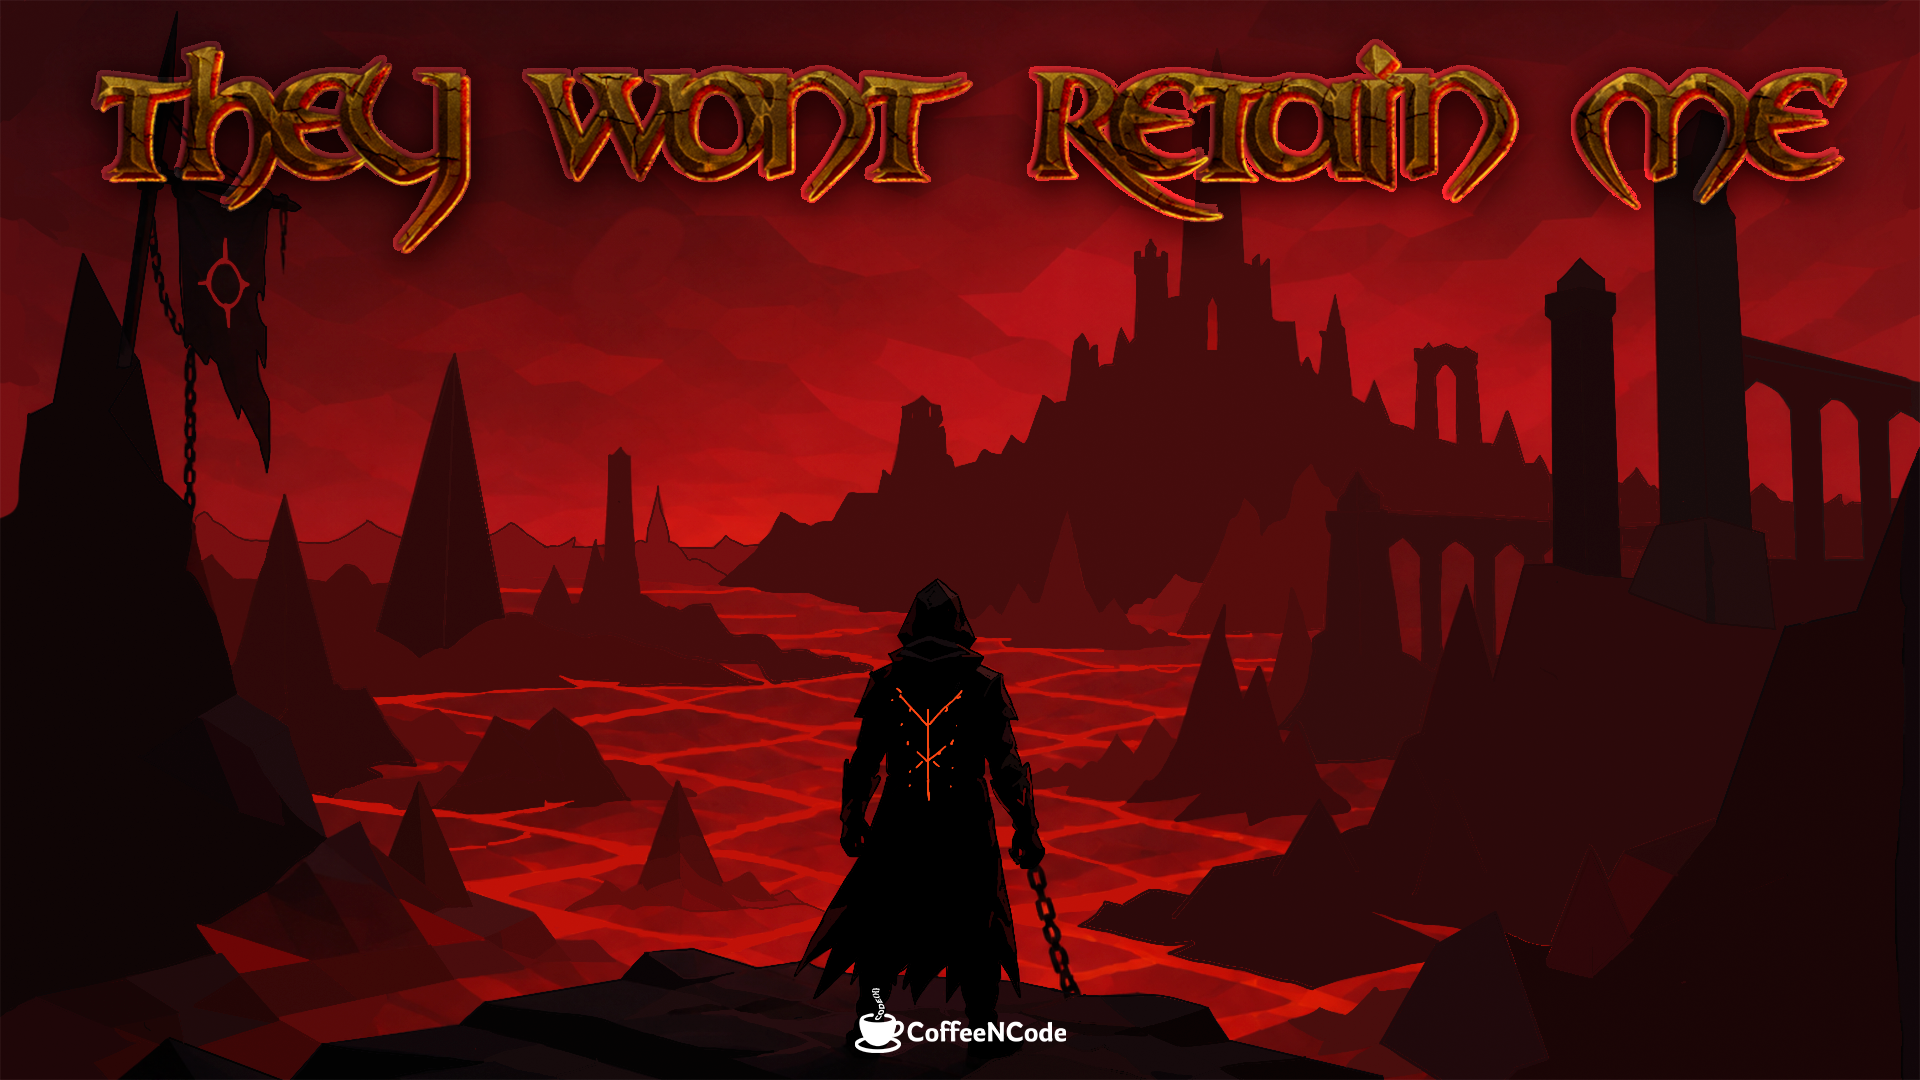
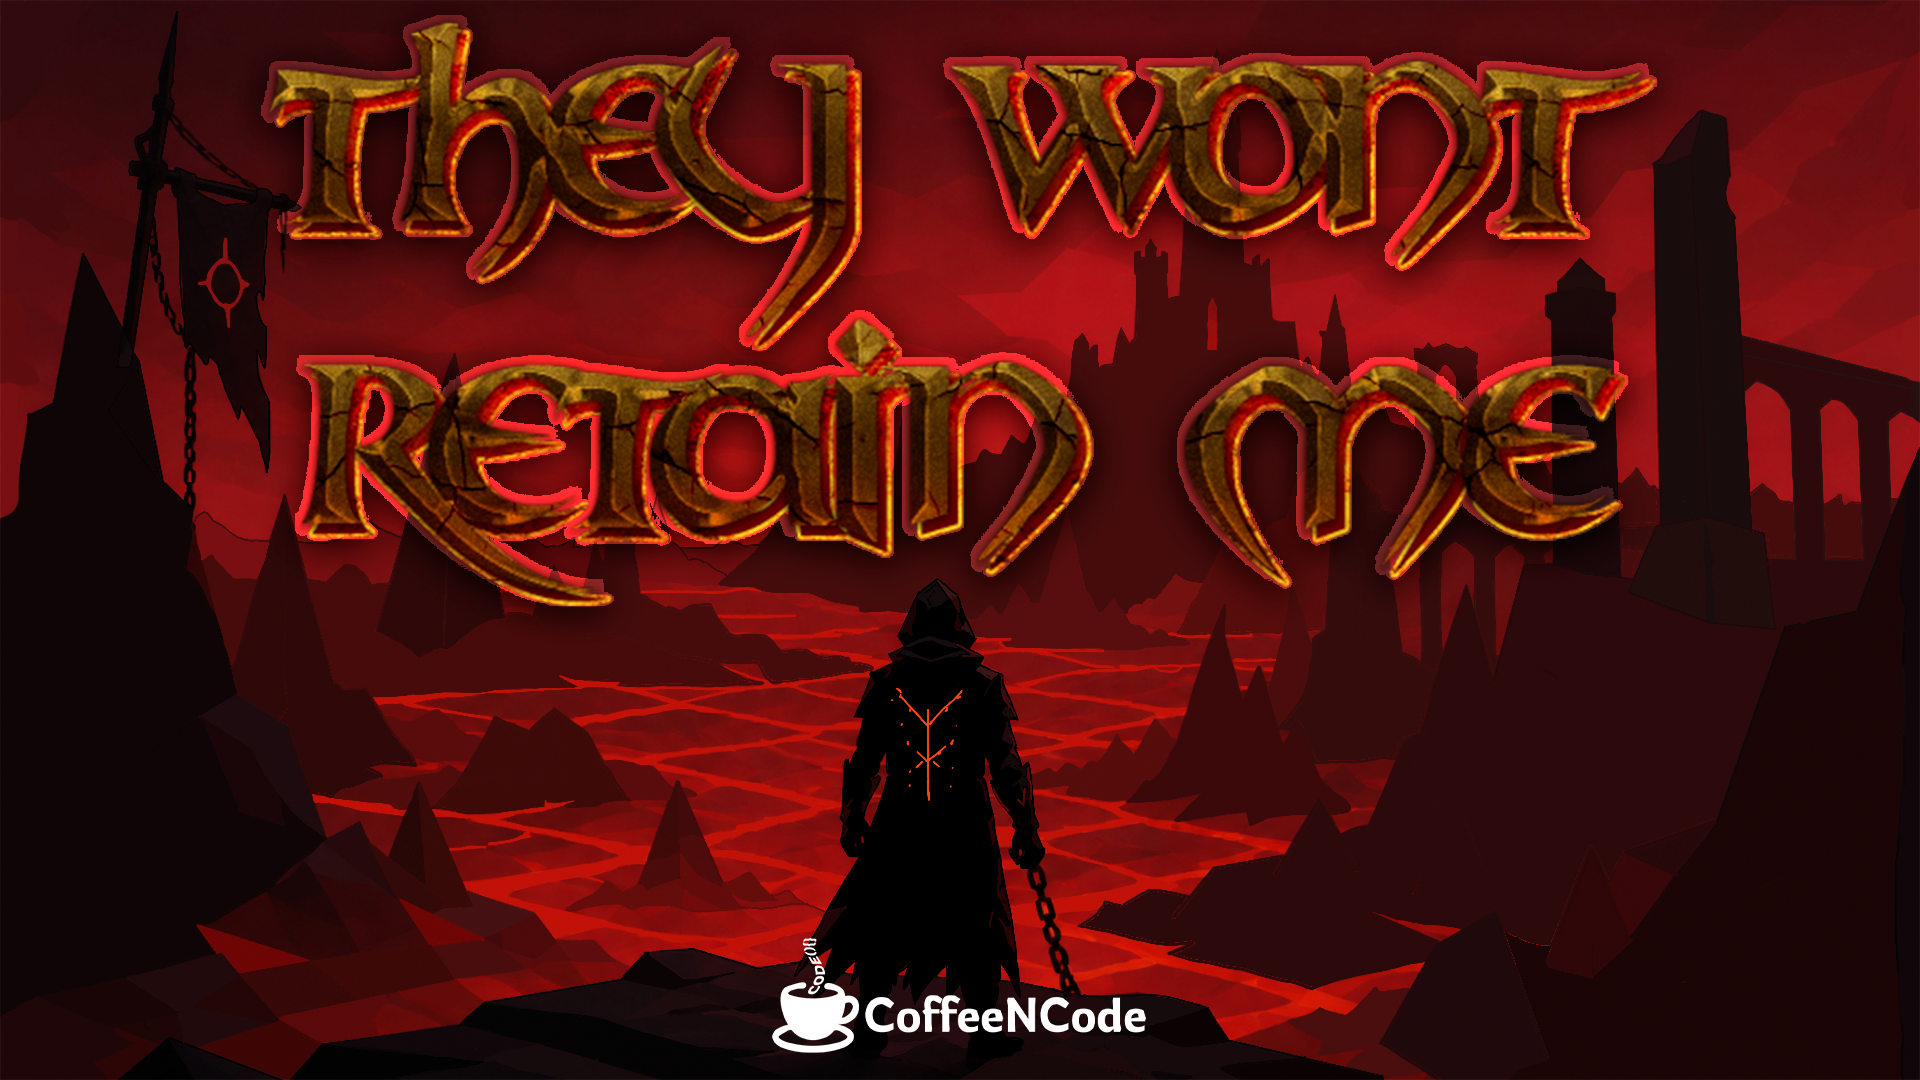
Arreglos y detalles

Changed region(s): [[0.0312, 0.0, 0.9688, 0.5806], [0.4062, 0.8861, 0.5938, 0.9778]]

diff --git a/assets/styles.css b/assets/styles.css
@@ -78,7 +78,7 @@ h1 {
 }
 
 h2 {
-    font-size: 2.5rem;
+    font-size: clamp(1.8rem, 6vw, 2.5rem);
 }
 
 .gradient-text {
@@ -204,6 +204,7 @@ h2 {
     color: var(--text-secondary);
     max-width: 650px;
     margin: 0 auto 2rem;
+    padding: 0 20px;
 }
 
 /* --- BUTTONS --- */
@@ -847,21 +848,25 @@ body::after {
     right: 40px;
     font-size: 0.85rem;
     color: var(--text-secondary);
-    display: flex;
-    align-items: center;
-    gap: 8px;
     z-index: 10;
     font-weight: 500;
     letter-spacing: 1px;
     text-transform: uppercase;
+    text-align: right;
+    max-width: 600px;
+    line-height: 1.5;
 }
 
 .status-dot {
+    display: inline-block;
     width: 10px;
     height: 10px;
     background-color: #10b981;
     border-radius: 50%;
     animation: pulse-green 2s infinite;
+    margin-right: 6px;
+    vertical-align: middle;
+    margin-bottom: 3px;
 }
 
 /* --- BENTO GRID (ABOUT ME) --- */
@@ -1173,13 +1178,31 @@ body::after {
 }
 
 @media (max-width: 768px) {
+    .hero-content {
+        padding-bottom: 100px;
+    }
+
     .featured-project {
         grid-template-columns: 1fr;
     }
 
     .featured-media {
-        height: 250px;
-        min-height: 250px;
+        height: auto;
+        min-height: unset;
+        padding: 40px 20px 0 20px;
+        align-items: center;
+    }
+
+}
+
+@media (max-width: 1024px) {
+    .status-text {
+        bottom: 95px;
+        right: 0;
+        left: 0;
+        text-align: center;
+        max-width: 100%;
+        padding: 0 20px;
     }
 }
 

diff --git a/index.html b/index.html
@@ -62,7 +62,7 @@
         </div>
 
         <div class="status-text">
-            <span class="status-dot"></span> Open to Work: Madrid, Segovia, Salamanca & Remote
+            <span class="status-dot"></span> Madrid, ES · Open to Work: Remote & Relocate
         </div>
     </section>
 
